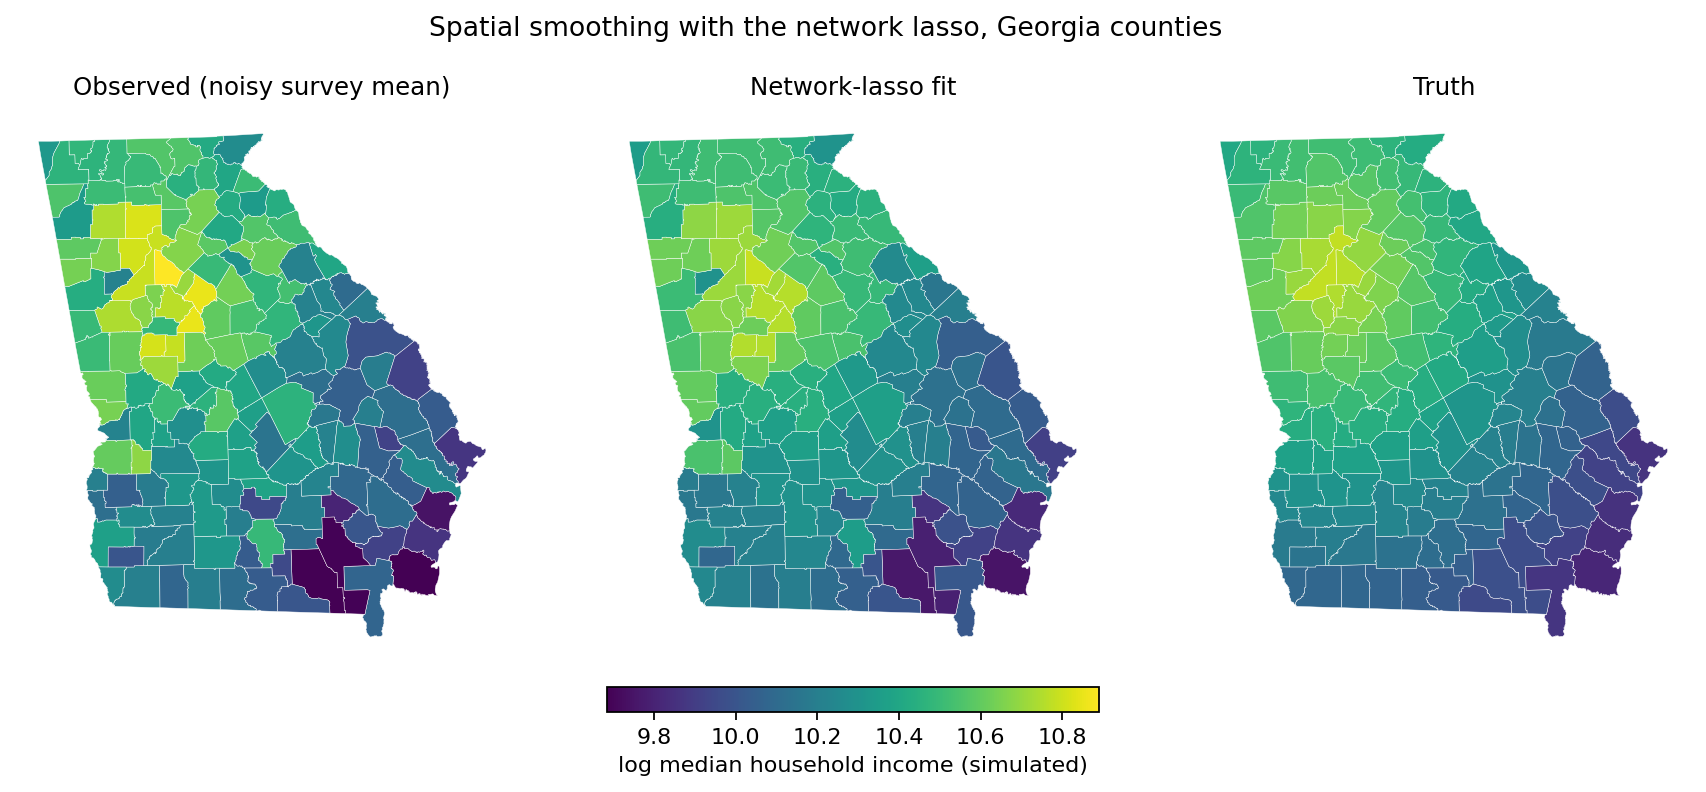
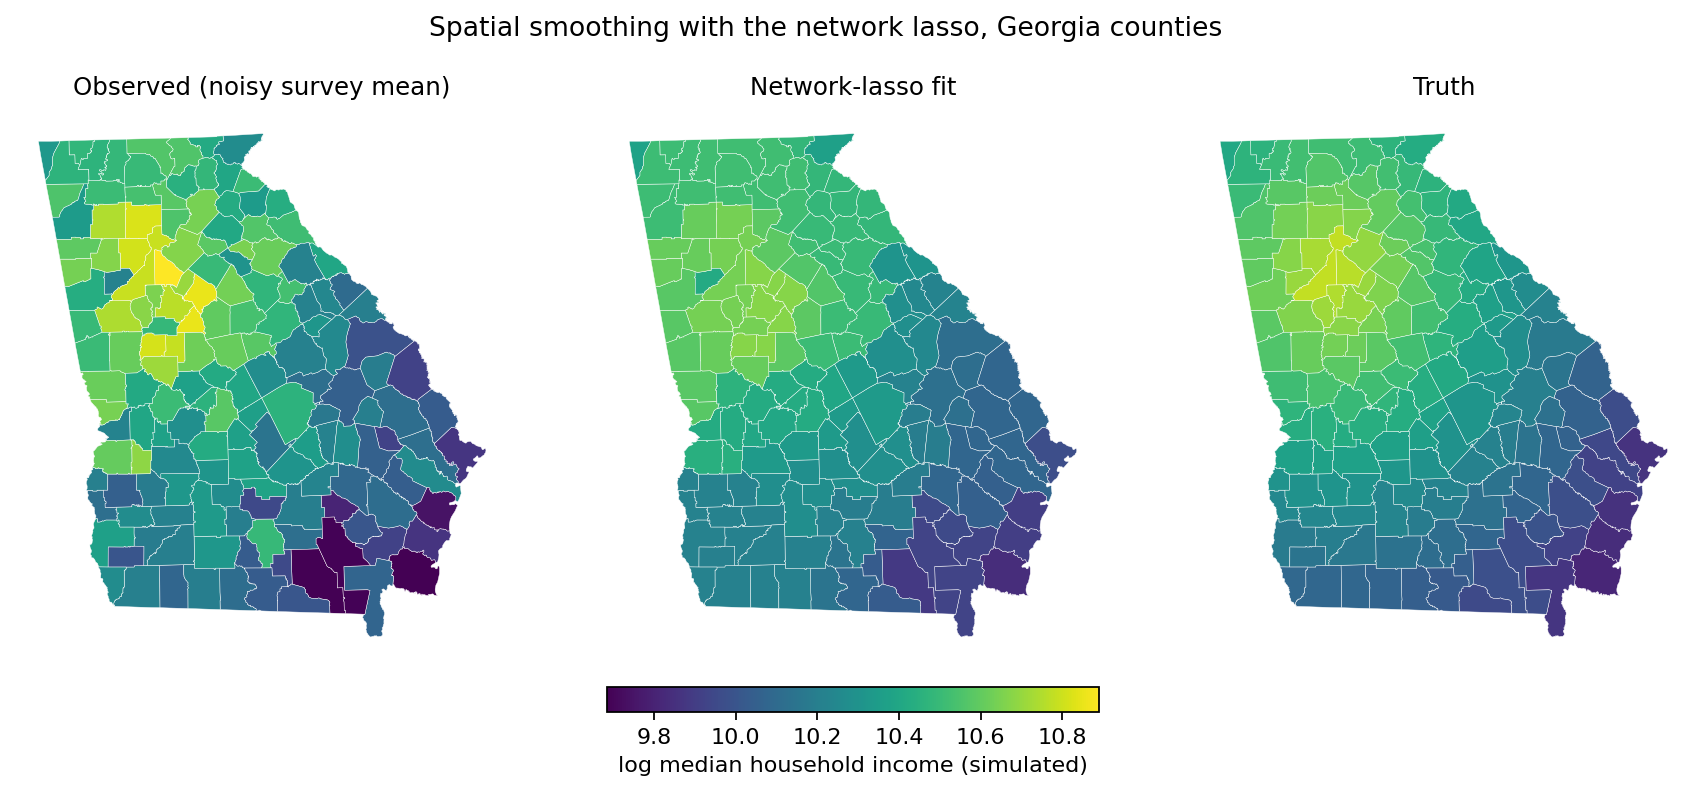
[Claude] Refresh the network-lasso choropleth guide for the new edof
Now that #82 makes _CategoricalFeature.dof() count distinct fitted
values under network_lasso, GCV is meaningful on this example -- the
old guide could only compare lambdas via RMSE-vs-truth because
pre-fix GCV was monotone-decreasing in lambda and picked the smallest
value on offer.

- Headline lambda 0.1 -> GCV-optimal lambda = 0.25 (edof = 51, ~50
  fused regions vs 105 before). Regenerated the inline mdl.summary()
  printout with the new edof / AIC / BIC / GCV.
- Dropped the "Note on edof" caveat that warned readers the reported
  edof didn't reflect fusion. It now does.
- Rewrote the "Choosing the smoothing strength" section around GCV;
  the lambda sweep prints edof + GCV instead of RMSE-vs-truth, and
  the prose explains why the now-shrunk edof is what makes GCV
  usable on this problem.
- Re-rendered docs/_static/network_lasso_choropleth.png at lambda =
  0.25; the middle panel shows the heavier fusion (50 regions) that
  the new prose describes. Updated the figure caption.

https://claude.ai/code/session_01QoNPYdeBfvNYFfVSW3ofic

diff --git a/docs/_static/render_network_lasso_choropleth.py b/docs/_static/render_network_lasso_choropleth.py
@@ -58,8 +58,7 @@ def main() -> None:
             obs_rows.append(
                 {
                     "county_id": row["county_id"],
-                    "log_income": row["true_log_income"]
-                    + rng.normal(0, 0.30),
+                    "log_income": row["true_log_income"] + rng.normal(0, 0.30),
                 }
             )
     obs = pd.DataFrame(obs_rows)
@@ -71,7 +70,7 @@ def main() -> None:
     mdl.add_feature(
         name="county_id",
         type="categorical",
-        regularization={"network_lasso": {"coef": 0.1, "edges": edges}},
+        regularization={"network_lasso": {"coef": 0.25, "edges": edges}},
     )
     mdl.fit(obs[["county_id"]], obs["log_income"].to_numpy())
     counties["fitted_log_income"] = mdl.predict(counties[["county_id"]])
@@ -95,9 +94,7 @@ def main() -> None:
         ax.set_axis_off()
         ax.set_title(title, fontsize=11)
 
-    sm = plt.cm.ScalarMappable(
-        cmap="viridis", norm=plt.Normalize(vmin=vmin, vmax=vmax)
-    )
+    sm = plt.cm.ScalarMappable(cmap="viridis", norm=plt.Normalize(vmin=vmin, vmax=vmax))
     cbar = fig.colorbar(
         sm, ax=axes, orientation="horizontal", fraction=0.04, pad=0.04, shrink=0.6
     )

diff --git a/docs/user_guides/network_lasso_choropleth.rst b/docs/user_guides/network_lasso_choropleth.rst
@@ -150,7 +150,9 @@ Fitting the GAM
 
 The model has a single feature --- ``county_id``, treated as a
 categorical with network-lasso regularization. The ``regularization``
-dict pairs the coefficient :math:`\lambda` with the edge list:
+dict pairs the coefficient :math:`\lambda` with the edge list. We start
+from :math:`\lambda = 0.25`, which a moment of GCV-driven tuning (next
+section) will confirm is a good default for this dataset:
 
 .. code-block:: python
 
@@ -160,21 +162,21 @@ dict pairs the coefficient :math:`\lambda` with the edge list:
     mdl.add_feature(
         name='county_id',
         type='categorical',
-        regularization={'network_lasso': {'coef': 0.1, 'edges': edges}},
+        regularization={'network_lasso': {'coef': 0.25, 'edges': edges}},
     )
     mdl.fit(obs[['county_id']], obs['log_income'].to_numpy())
 
     mdl.summary()
     # Model Statistics
     # ----------------
-    # phi: 0.0957
-    # edof: 159
-    # Deviance: 60.9
-    # AIC: 956
-    # AICc: 1037
-    # BIC: 1705
-    # R^2: 0.455
-    # GCV: 0.120
+    # phi: 0.0890
+    # edof: 51
+    # Deviance: 66.2
+    # AIC: 848
+    # AICc: 855
+    # BIC: 1091
+    # R^2: 0.408
+    # GCV: 0.0951
 
 The fitted county effects --- one per category --- are obtained by
 calling :meth:`~gamdist.GAM.predict` with a one-row-per-county
@@ -184,12 +186,12 @@ DataFrame:
 
     counties['fitted_log_income'] = mdl.predict(counties[['county_id']])
 
-Note on ``edof``: gamdist currently counts every category as a separate
-parameter, so the reported effective degrees of freedom (159 here) does
-not yet reflect the fusion the network lasso induces. The fit itself
-collapses many neighbors to identical values, as the next section
-shows; the AIC / BIC numbers should therefore be read as upper bounds
-on the model's true complexity.
+The reported effective degrees of freedom (51) is much smaller than the
+159 categories: the network lasso has fused most neighboring counties
+to identical coefficients, and ``edof`` reflects the actual number of
+distinct fitted values rather than the unconstrained category count.
+That correctly-shrunk ``edof`` is what allows the AIC, BIC, and GCV
+numbers above to be compared meaningfully across :math:`\lambda` values.
 
 Drawing the choropleth
 ----------------------
@@ -223,9 +225,10 @@ the panels are directly comparable:
    :align: center
 
    Network-lasso smoothing of a simulated per-county survey of log
-   median household income. The middle panel collapses 159 counties to
-   ~105 distinct values; many internal boundaries disappear as
-   neighbors fuse to identical coefficients.
+   median household income at the GCV-optimal :math:`\lambda = 0.25`.
+   The middle panel collapses 159 counties to 50 distinct fitted
+   values; most internal boundaries disappear as neighbors fuse to
+   identical coefficients.
 
 The left panel is mottled --- noise dominates the per-county means.
 The middle panel shows the smoothed estimate: most county boundaries
@@ -243,11 +246,14 @@ The single tuning knob is :math:`\lambda` (passed as ``coef``). At
 county gets its own free coefficient (= the per-county sample mean,
 modulo the implicit zero-sum centering). As :math:`\lambda \to \infty`
 all coefficients along any connected component of the graph collapse
-to the same value. Sweeping a few values illustrates the behavior:
+to the same value. The principled way to choose :math:`\lambda` is to
+minimize **generalized cross-validation** (GCV), an efficient
+leave-one-out CV approximation reported by :meth:`~gamdist.GAM.summary`
+on every fit:
 
 .. code-block:: python
 
-    for lam in [0.001, 0.01, 0.1, 1.0]:
+    for lam in [0.001, 0.05, 0.1, 0.25, 0.5, 1.0]:
         mdl_l = GAM(family='normal')
         mdl_l.add_feature(
             name='county_id', type='categorical',
@@ -255,28 +261,42 @@ to the same value. Sweeping a few values illustrates the behavior:
         )
         mdl_l.fit(obs[['county_id']], obs['log_income'].to_numpy())
         fit = mdl_l.predict(counties[['county_id']])
-        rmse = np.sqrt(np.mean((fit - counties['true_log_income']) ** 2))
         n_unique = np.unique(np.round(fit, 4)).size
-        print(f'lambda={lam:>6}: RMSE-vs-truth={rmse:.4f}'
-              f'  unique levels={n_unique:3d}')
+        print(f'lambda={lam:>6}: edof={mdl_l.dof():>5.1f}'
+              f'  GCV={mdl_l.gcv():.4f}  unique levels={n_unique:3d}')
 
-    # lambda= 0.001: RMSE-vs-truth=0.1292  unique levels=157
-    # lambda=  0.01: RMSE-vs-truth=0.1242  unique levels=152
-    # lambda=   0.1: RMSE-vs-truth=0.0864  unique levels=105
-    # lambda=   1.0: RMSE-vs-truth=0.1103  unique levels= 11
+    # lambda= 0.001: edof=159.0  GCV=0.1146  unique levels=157
+    # lambda=  0.05: edof=124.0  GCV=0.1044  unique levels=123
+    # lambda=   0.1: edof=106.0  GCV=0.1020  unique levels=105
+    # lambda=  0.25: edof= 51.0  GCV=0.0951  unique levels= 50
+    # lambda=   0.5: edof= 34.0  GCV=0.0981  unique levels= 34
+    # lambda=   1.0: edof= 11.0  GCV=0.1009  unique levels= 11
 
-For reference, the raw per-county sample means already attain
-RMSE :math:`\approx 0.130`. A negligible :math:`\lambda` barely
-improves on that --- nearly every county still has its own value
-(157 distinct levels out of 159). At :math:`\lambda = 0.1` the
-fit collapses to 105 distinct levels and the error drops by a
-third. Push :math:`\lambda` to 1.0 and the network lasso has carved
-the state into just 11 large regions: a clearer summary, but now
-over-smoothed in places that the truth is genuinely heterogeneous.
+GCV bottoms out near :math:`\lambda = 0.25`, where the network lasso
+has fused Georgia's 159 counties into 50 contiguous regions of
+constant value. A negligible :math:`\lambda` leaves nearly every
+county with its own value (157 distinct levels out of 159) and the
+fit barely improves on the raw per-county sample means. Push
+:math:`\lambda` to 1.0 and the state is carved into 11 large regions:
+a clearer summary, but now over-smoothed where the truth is genuinely
+heterogeneous.
 
-In practice you would pick :math:`\lambda` by minimizing GCV (reported
-in :meth:`~gamdist.GAM.summary`) or by holding out part of the data,
-exactly as you would tune any other regularization coefficient.
+The ``edof`` column makes this concrete: it is the number of
+*independent* coefficients the fit is actually using, after fusion.
+For ``network_lasso`` :meth:`~gamdist.GAM.dof` counts distinct fitted
+values rather than the unconstrained category count, so
+:math:`\lambda = 0.25` and :math:`\lambda = 0.5` both report ``edof``
+that is far below 159 even though every county still has a (fused)
+prediction. That is what makes GCV --- which weights the deviance by
+:math:`(1 - \mathrm{edof}/n)^{-2}` --- a usable model-selection
+criterion here.
+
+For a tighter optimum, sweep more :math:`\lambda` values around the
+minimum and pick the one with the smallest GCV. Holding out part of
+the data and choosing :math:`\lambda` by validation deviance gives the
+same answer up to noise, and is the standard fallback when you mistrust
+the GCV approximation (e.g., for very small samples or non-Gaussian
+families with a fixed dispersion).
 
 When to reach for ``network_lasso``
 -----------------------------------